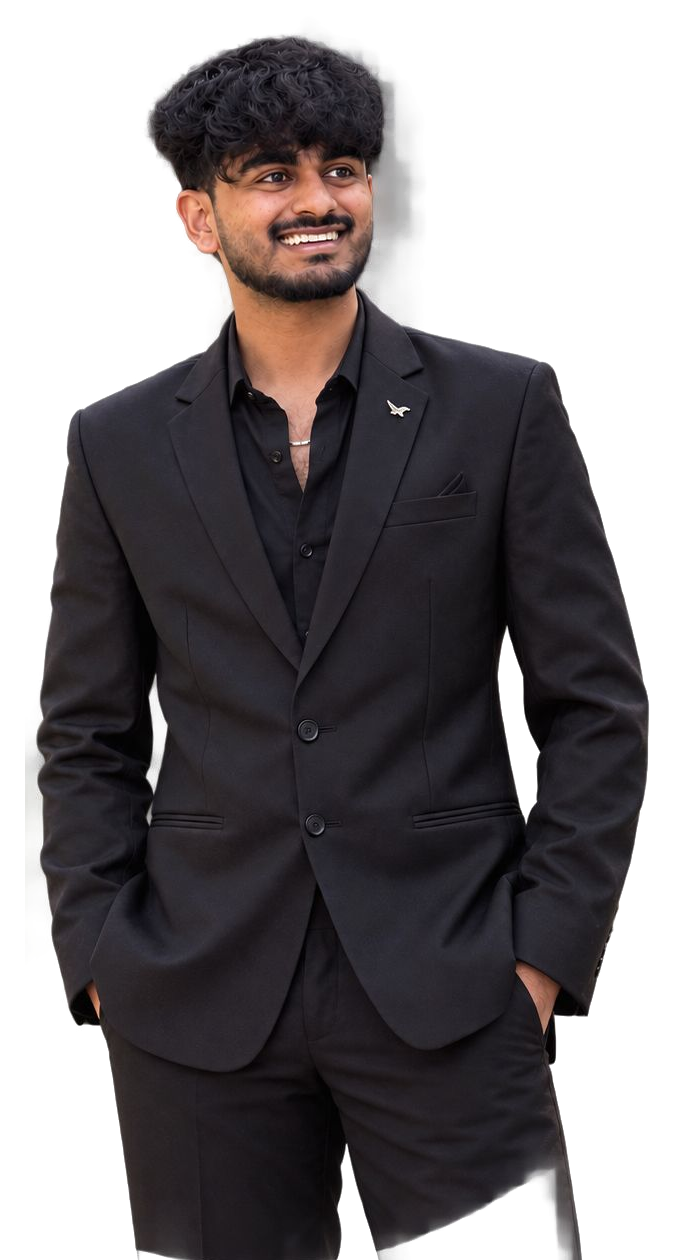
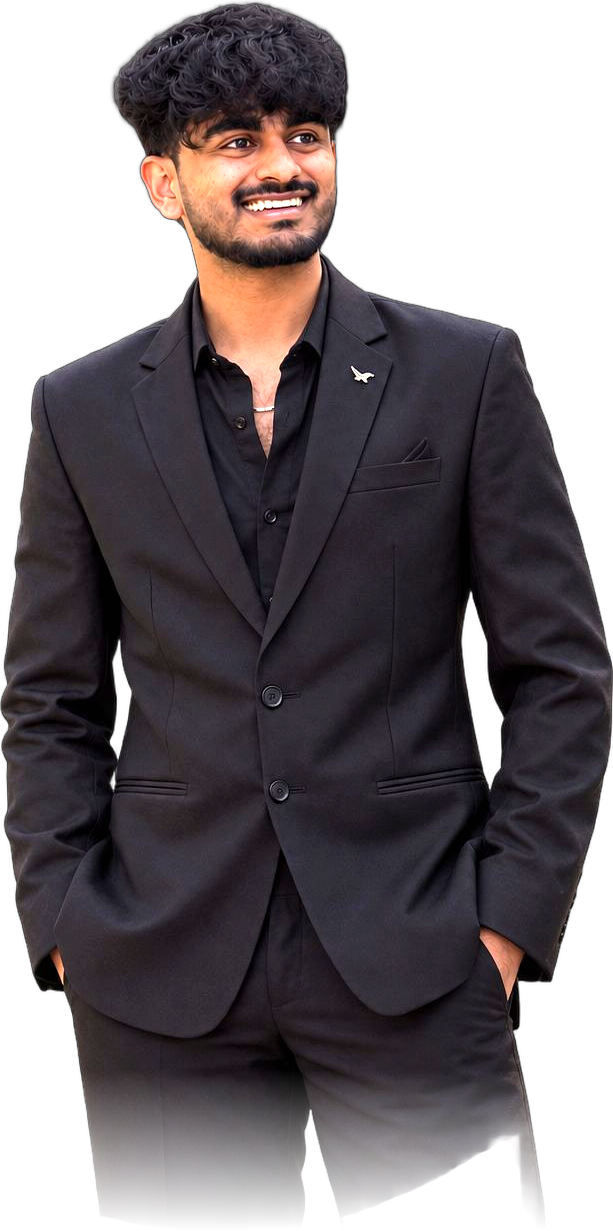
fix(about): remove KGS header line, enhance portrait with neural cutout, studio lighting, and taller alignment

diff --git a/src/components/About.module.css b/src/components/About.module.css
@@ -53,88 +53,17 @@
 .editorialSpread {
   position: relative;
   width: 100%;
-  margin: 0 auto 80px;
+  margin: 0 auto 60px;
   background: transparent;
-  padding: 10px 0 30px;
-}
-
-/* Top Brand Bar */
-.spreadTopBar {
-  display: flex;
-  justify-content: space-between;
-  align-items: center;
-  gap: 16px;
-  padding-bottom: 28px;
-  border-bottom: 1px solid rgba(212, 175, 55, 0.22);
-  margin-bottom: 48px;
-}
-
-.brandGroup {
-  display: flex;
-  align-items: baseline;
-  gap: 16px;
-  flex-wrap: wrap;
-}
-
-.brandLogo {
-  font-family: var(--font-display);
-  font-size: 1.95rem;
-  font-weight: 900;
-  letter-spacing: 2px;
-  color: #ffffff;
-  line-height: 1;
-}
-
-.brandSubtitle {
-  font-size: 0.72rem;
-  letter-spacing: 3px;
-  text-transform: uppercase;
-  color: var(--text-dim);
-  font-weight: 600;
-}
-
-.turnIdeasBtn {
-  display: inline-flex;
-  align-items: center;
-  gap: 8px;
-  padding: 8px 20px;
-  border-radius: 30px;
-  border: 1px solid rgba(212, 175, 55, 0.4);
-  background: rgba(212, 175, 55, 0.06);
-  color: var(--gold-light);
-  font-size: 0.74rem;
-  font-weight: 700;
-  letter-spacing: 1.5px;
-  text-decoration: none;
-  transition: all 0.3s cubic-bezier(0.16, 1, 0.3, 1);
-}
-
-.turnIdeasBtn:hover {
-  background: var(--gold);
-  color: #0b0b0f;
-  border-color: var(--gold-light);
-  transform: translateY(-2px);
-  box-shadow: 0 6px 20px rgba(212, 175, 55, 0.35);
-}
-
-.dashAccent {
-  color: var(--gold);
-  font-size: 1rem;
-  font-weight: 800;
-  transition: transform 0.2s ease;
-}
-
-.turnIdeasBtn:hover .dashAccent {
-  color: #0b0b0f;
-  transform: translateX(4px);
+  padding: 0;
 }
 
 /* 3-Column Editorial Grid */
 .spreadMainGrid {
   display: grid;
   grid-template-columns: 1.15fr 1fr 0.95fr;
-  align-items: center;
-  gap: 32px;
+  align-items: flex-end;
+  gap: 36px;
 }
 
 /* Left Column */
@@ -273,15 +202,15 @@
   display: flex;
   justify-content: center;
   align-items: flex-end;
-  min-height: 540px;
+  min-height: 620px;
   z-index: 1;
 }
 
 .portraitAura {
   position: absolute;
-  inset: -15% -15% 0 -15%;
-  background: radial-gradient(ellipse at 50% 55%, rgba(212, 175, 55, 0.26) 0%, rgba(212, 175, 55, 0.06) 50%, transparent 72%);
-  filter: blur(45px);
+  inset: -20% -20% -5% -20%;
+  background: radial-gradient(ellipse at 50% 50%, rgba(212, 175, 55, 0.32) 0%, rgba(212, 175, 55, 0.08) 48%, transparent 72%);
+  filter: blur(50px);
   pointer-events: none;
   z-index: 0;
 }
@@ -289,17 +218,17 @@
 .portraitWrapper {
   position: relative;
   width: 100%;
-  max-width: 380px;
-  height: 540px;
+  max-width: 440px;
+  height: 620px;
   z-index: 1;
-  mask-image: linear-gradient(to bottom, black 82%, transparent 100%);
-  -webkit-mask-image: linear-gradient(to bottom, black 82%, transparent 100%);
-  filter: drop-shadow(0 20px 40px rgba(0, 0, 0, 0.9));
+  mask-image: linear-gradient(to bottom, black 80%, transparent 100%);
+  -webkit-mask-image: linear-gradient(to bottom, black 80%, transparent 100%);
+  filter: drop-shadow(0 25px 50px rgba(0, 0, 0, 0.95));
   transition: transform 0.4s cubic-bezier(0.16, 1, 0.3, 1);
 }
 
 .portraitWrapper:hover {
-  transform: translateY(-6px) scale(1.02);
+  transform: translateY(-4px) scale(1.015);
 }
 
 .portraitImage {
@@ -699,12 +628,6 @@
     text-align: center;
   }
 
-  .spreadTopBar {
-    flex-direction: column;
-    align-items: flex-start;
-    gap: 14px;
-    margin-bottom: 32px;
-  }
 
   .spreadMainGrid {
     grid-template-columns: 1fr;
@@ -729,12 +652,12 @@
   }
 
   .centerCol {
-    min-height: 440px;
+    min-height: 480px;
   }
 
   .portraitWrapper {
-    max-width: 320px;
-    height: 440px;
+    max-width: 340px;
+    height: 480px;
   }
 
   .rightCol {

diff --git a/src/components/About.jsx b/src/components/About.jsx
@@ -49,20 +49,6 @@ export default function About() {
 
         {/* ── Seamless Editorial Monograph Spread (No Boxed Card) ── */}
         <div className={styles.editorialSpread} data-reveal="up">
-          {/* Top Brand Bar */}
-          <div className={styles.spreadTopBar}>
-            <div className={styles.brandGroup}>
-              <span className={styles.brandLogo}>KGS.</span>
-              <span className={styles.brandSubtitle}>
-                ENGINEER &nbsp;/&nbsp; BUILDER &nbsp;/&nbsp; CREATIVE THINKER
-              </span>
-            </div>
-            <a href="#contact" className={styles.turnIdeasBtn}>
-              <span>TURN IDEAS INTO IMPACT</span>
-              <span className={styles.dashAccent}>—</span>
-            </a>
-          </div>
-
           {/* Main 3-Column Editorial Panorama */}
           <div className={styles.spreadMainGrid}>
             {/* Left Column — The BUILD Typography & Mantras */}
